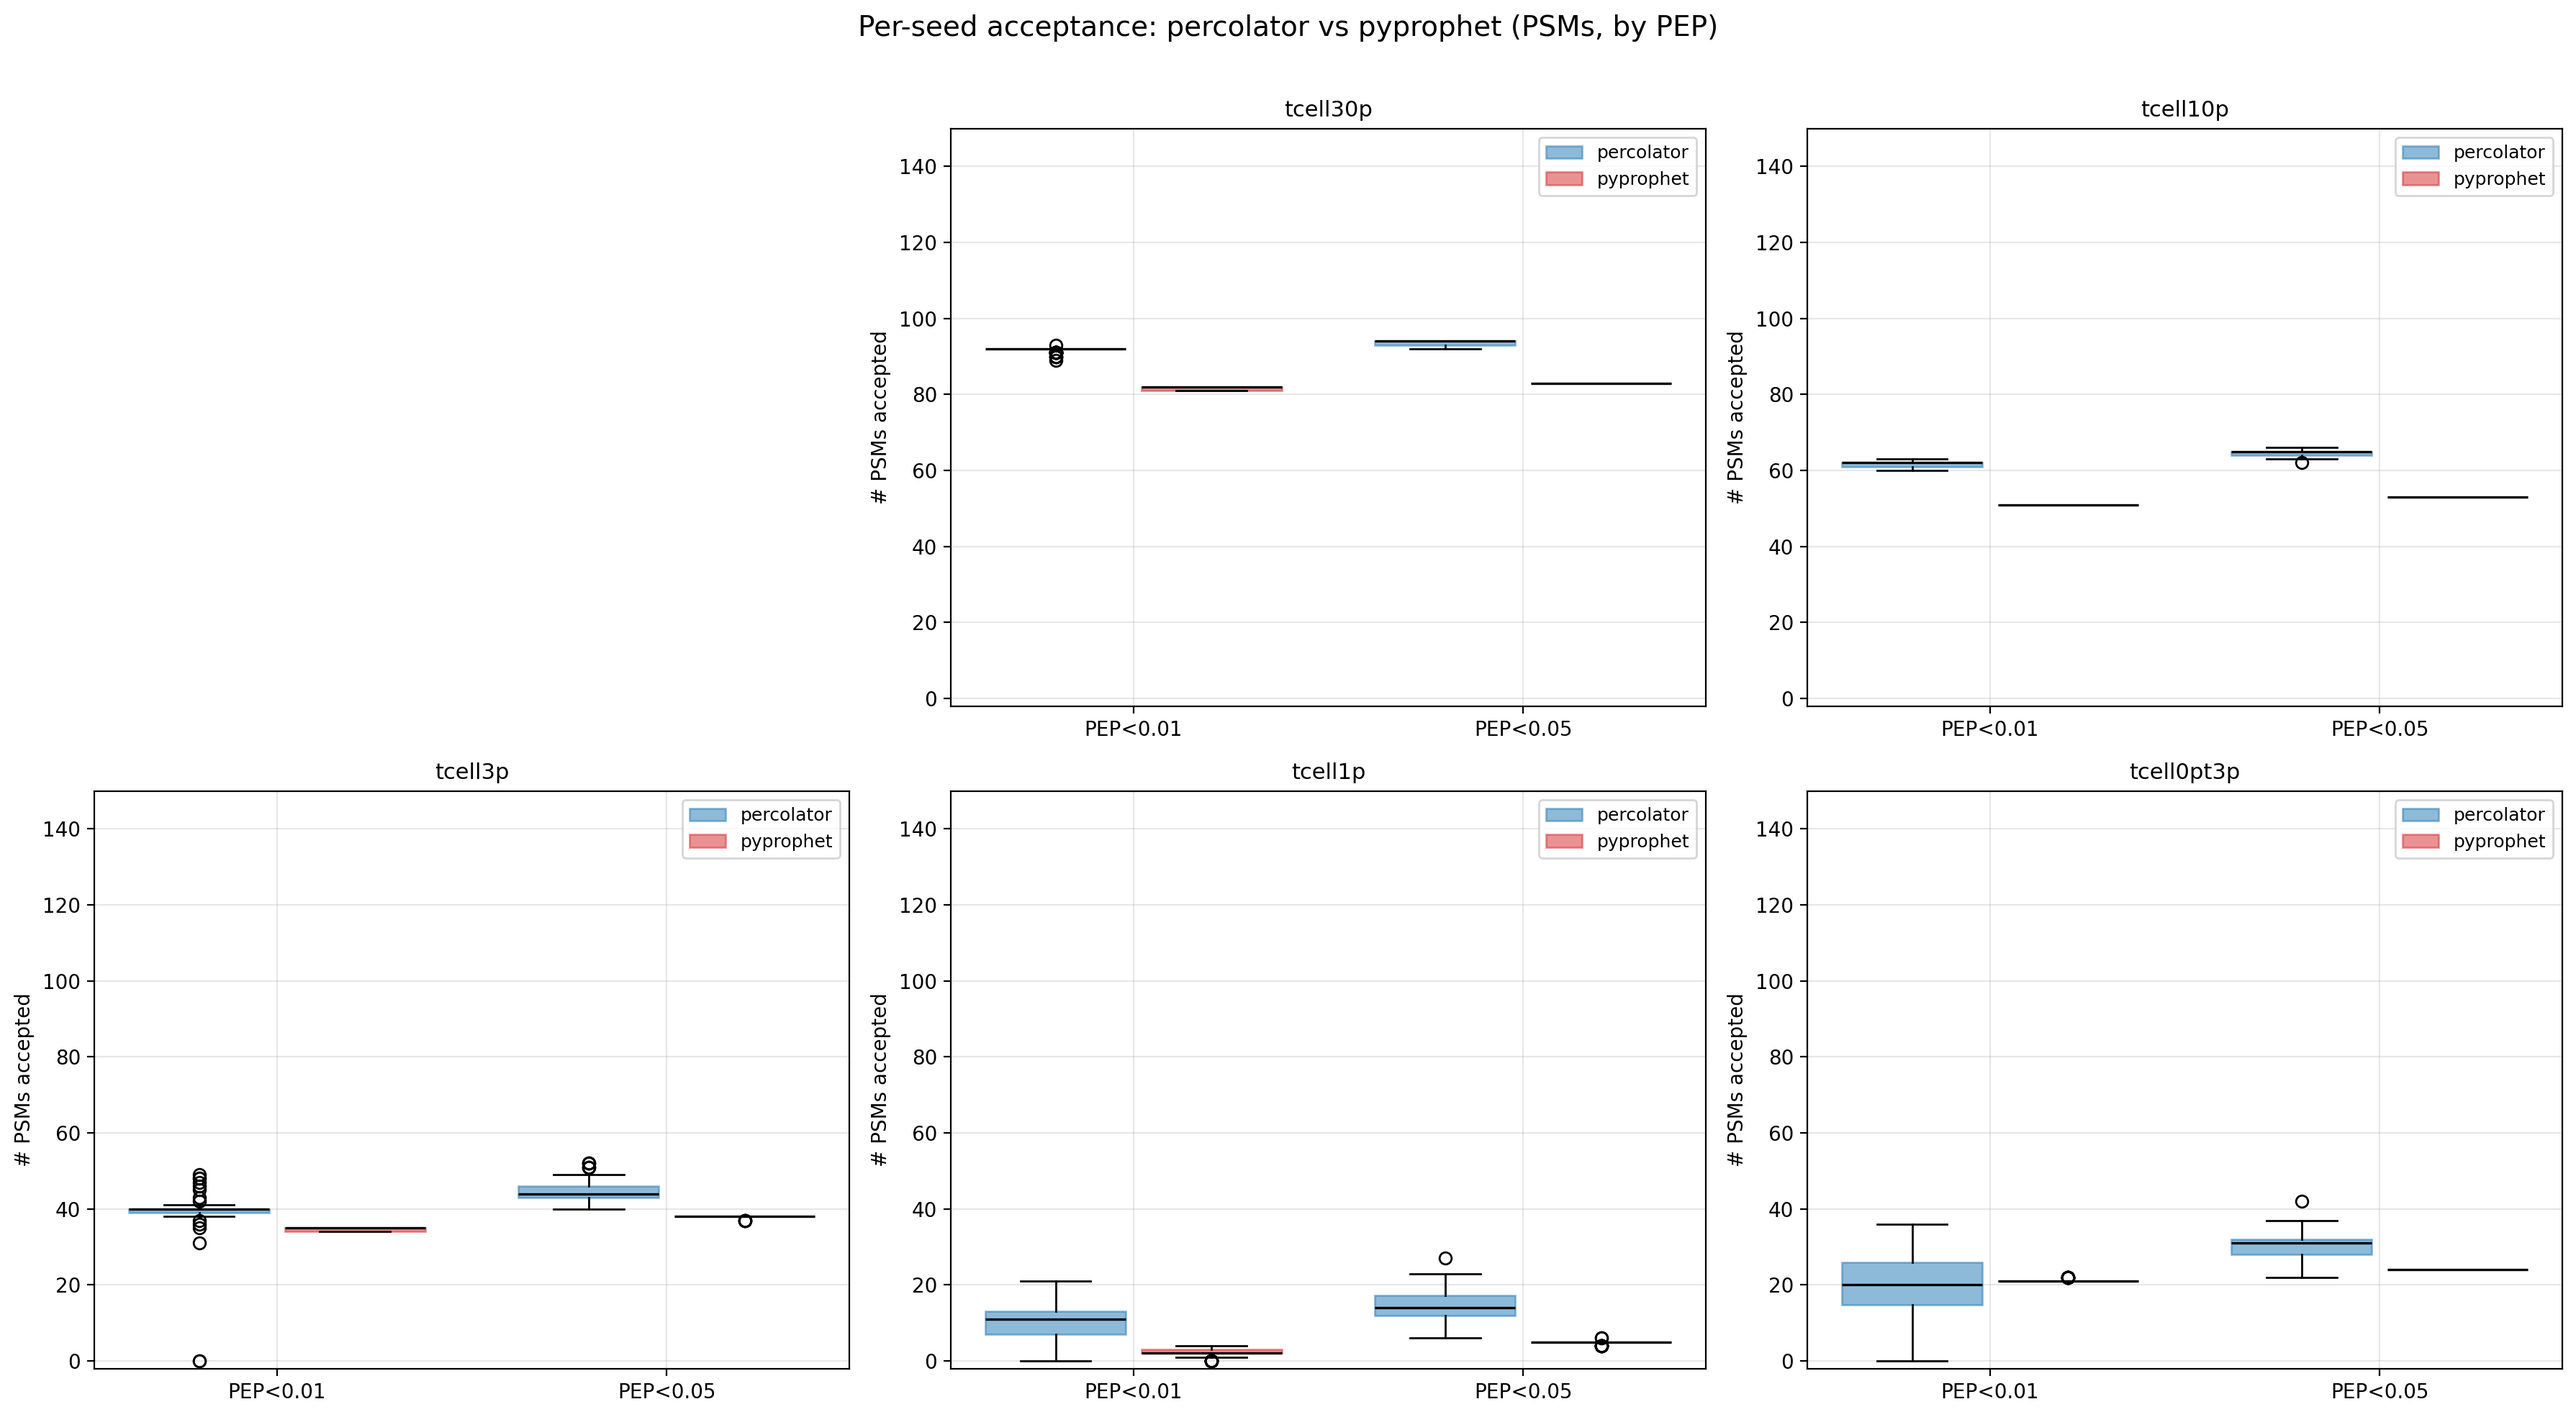
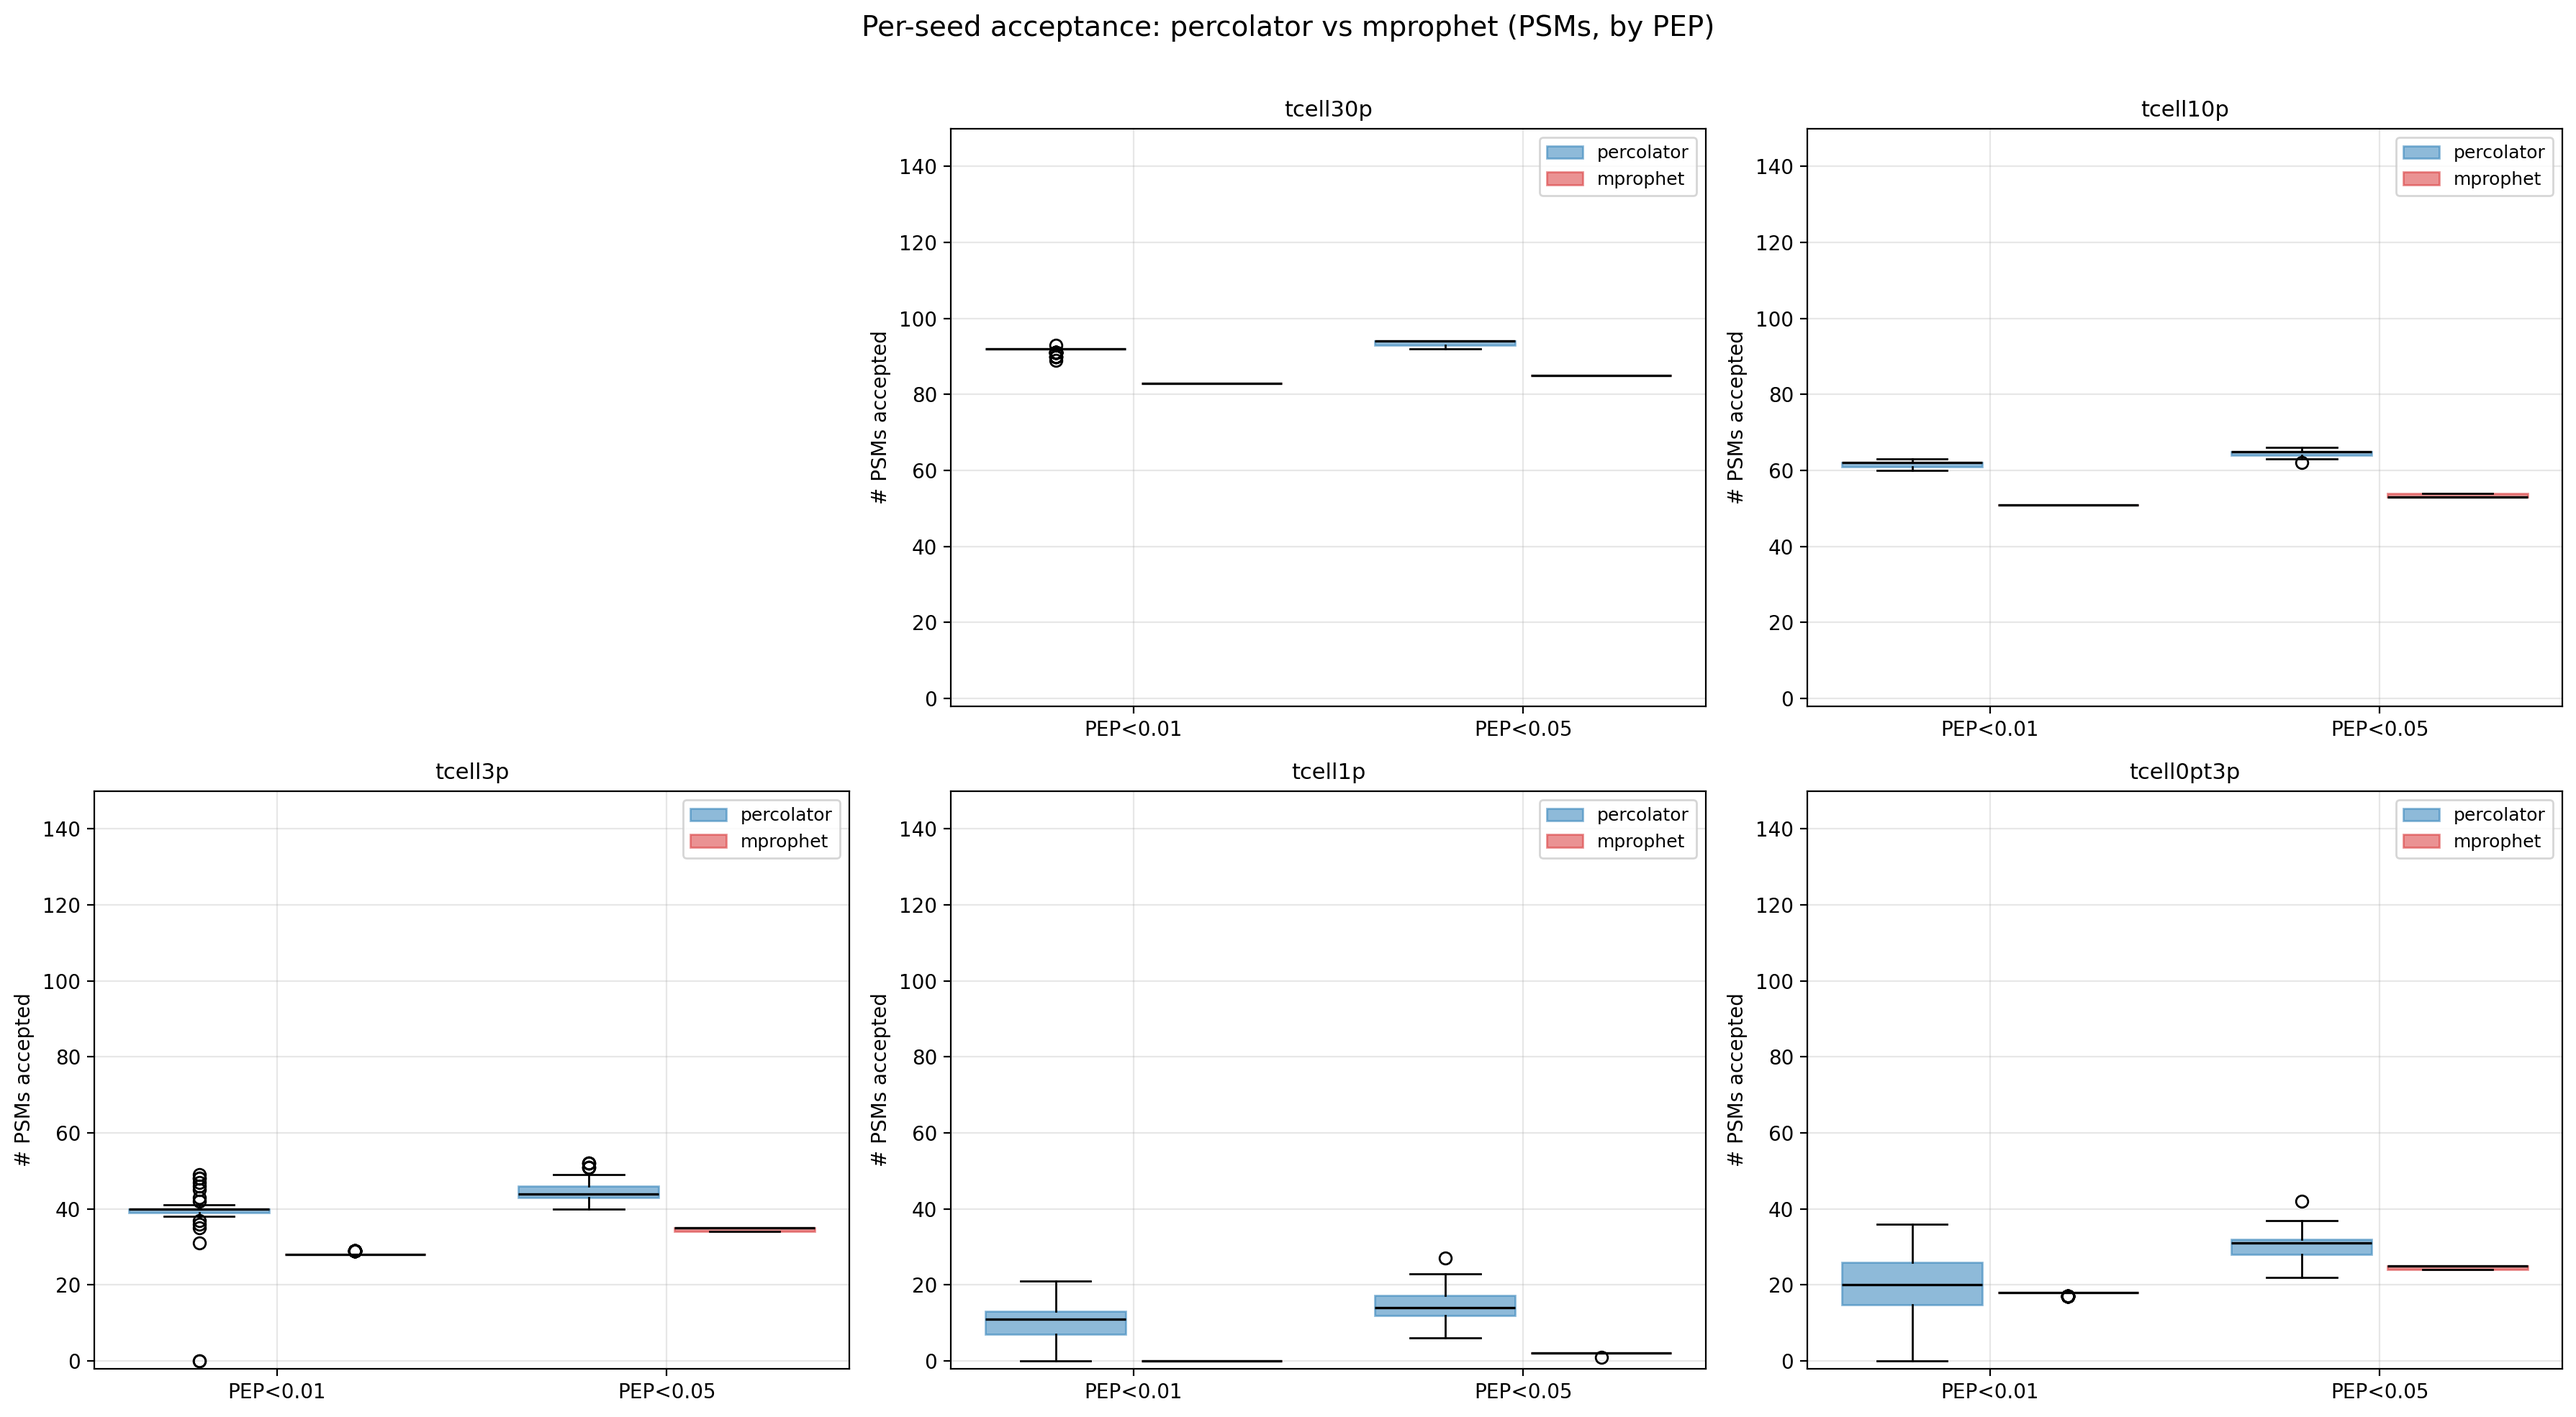
update reproducibility test scripts and results; update docs

diff --git a/scripts/aggregate.py b/scripts/aggregate.py
@@ -37,7 +37,7 @@ def parse_percolator_weights(path):
     return feature_names, np.stack(w_raw, axis=0), np.array(b_raw)
 
 
-def parse_pyprophet_weights(path):
+def parse_mprophet_weights(path):
     df = pd.read_csv(path, sep="\t")
     feat = [str(x) for x in df["feature"].tolist()]
     w = df["weight"].to_numpy(dtype=float)
@@ -55,8 +55,8 @@ def parse_pyprophet_weights(path):
 def parse_weights(path, engine):
     if engine == "percolator":
         return parse_percolator_weights(path)
-    if engine == "pyprophet":
-        return parse_pyprophet_weights(path)
+    if engine == "mprophet":
+        return parse_mprophet_weights(path)
     raise ValueError(f"unknown engine {engine!r}")
 
 
@@ -167,7 +167,7 @@ def build_parser():
     p.add_argument("--outdir", type=Path, required=True,
                    help="Directory containing the per-seed results (typically "
                         "results/<engine>).")
-    p.add_argument("--engine", choices=("percolator", "pyprophet"),
+    p.add_argument("--engine", choices=("percolator", "mprophet"),
                    default="percolator",
                    help="Selects the weight-file format parser.")
     p.add_argument("--q-thresholds", type=float, nargs="+", default=[0.01, 0.05],

diff --git a/scripts/combine_boxplots.py b/scripts/combine_boxplots.py
@@ -11,8 +11,8 @@ import pandas as pd
 
 # /proj/proteoforma_nsc/mamba_env/pymc_py12/bin/python /proj/proteoforma_nsc/Context/scripts/combine_boxplots.py
 
-ENGINES = ("percolator", "pyprophet")
-ENGINE_COLORS = {"percolator": "#1f77b4", "pyprophet": "#d62728"}
+ENGINES = ("percolator", "mprophet")
+ENGINE_COLORS = {"percolator": "#1f77b4", "mprophet": "#d62728"}
 METRICS = ("q-value", "PEP")
 LEVELS = ("PSMs", "peptides")
 LAYOUT = [
@@ -117,7 +117,7 @@ def comparison_grid(base_dir, level, metric):
                 continue
             counts = {eng: _load_counts(base_dir, eng, prefix) for eng in ENGINES}
             _comparison_subplot(ax, counts, level, metric, prefix)
-    fig.suptitle(f"Per-seed acceptance: percolator vs pyprophet "
+    fig.suptitle(f"Per-seed acceptance: percolator vs mprophet "
                  f"({level}, by {metric})", fontsize=14)
     fig.tight_layout(rect=(0, 0, 1, 0.97))
     out_path = cross_figs_dir / f"combined.compare.boxplot.{level}.{metric}.png"

diff --git a/README.md b/README.md
@@ -10,7 +10,7 @@ transfers the learned linear discriminant to score the target panel.
 FDR + q-values from TDC scores and fits an I-spline q -> PEP, separately at
 the PSM and peptide levels.
 
-**`percolator`** (default) and **`pyprophet`** are supported for the discriminant step.
+**`percolator`** (default) and **`mprophet`** are supported for the discriminant step.
 
 `Context` is distributed as both a [**container image**](https://github.com/shannon225/Context/pkgs/container/context)
 (Podman-, Docker- and Apptainer-compatible) and a [**Python package**](https://pypi.org/project/context-ms)
@@ -26,14 +26,12 @@ exposing the same CLI.
 pip install context-ms
 ```
 
-`Context` is a Python package with two interchangeable external engines:
-Percolator and pyProphet. For PyPI installations, `Context` prefers a local
-executable on `PATH` (`percolator` or `pyprophet`); when neither is present
-it falls back to a container image via Podman or Docker (set with
-`--container-cmd`, default `podman`):
+`Context` is a Python package. The `mprophet` engine has no external
+dependency beyond NumPy/pandas. The `percolator` engine prefers a local
+`percolator` executable on `PATH` and falls back to a container image via
+Podman or Docker (set with `--container-cmd`, default `podman`):
 
 * Percolator container: `ghcr.io/percolator/percolator:master`
-* pyProphet container: `ghcr.io/pyprophet/pyprophet:latest`
 
 ### Container image
 ```bash
@@ -59,6 +57,12 @@ results/
   P.peptide.target.txt            # peptide-level target output
 ```
 
+Weights file format:
+
+* `percolator`: Percolator's native `--weights` output (3 lines per CV bin).
+* `mprophet`: a two-column TSV with `feature` and `weight`, plus a final
+  `__bias__` row carrying the LDA constant.
+
 Each output path can be overridden individually via `--weights-out`,
 `--rescored-out`, `--psm-out`, `--peptide-out`. Values may be plain file
 names (written inside `--outdir`, or inside `--outdir/weights` for the
@@ -78,13 +82,36 @@ context run -h
 | `--target FILE` | *required* | target panel feature TSV |
 | `--prefix STR` | *required* | output prefix for results files |
 | `--outdir DIR` | `results` | output directory |
-| `--engine NAME` | `percolator` | `percolator` or `pyprophet` |
-| `--seed INT` | `1` | seed; passed to Percolator. |
+| `--engine NAME` | `percolator` | `percolator` or `mprophet` |
+| `--seed INT` | `1` | seed; passed to Percolator or to mprophet's RNG |
 | `--container-cmd CMD` | `podman` | container runtime fallback (`podman` or `docker`) |
+| `--input-profile NAME` | `encyclopedia` | mprophet-only; feature-column selection profile (`auto`, `pin`, `encyclopedia`) |
+| `--seed-coefficients NAME_OR_PATH` | `encyclopedia` | mprophet-only; built-in name (`encyclopedia`, `none`) or path to a JSON file mapping feature names to seed-model coefficients |
 | `--weights-out FILE` | `<prefix>.weights.txt` | weights output file name (or path); relative paths land under `<outdir>/weights` |
 | `--rescored-out FILE` | `<prefix>.rescored_features.tsv` | rescored-features output file name (or path); relative paths land under `<outdir>` |
 | `--psm-out FILE` | `<prefix>.psm.target.txt` | PSM-level output file name (or path); relative paths land under `<outdir>` |
 | `--peptide-out FILE` | `<prefix>.peptide.target.txt` | peptide-level output file name (or path); relative paths land under `<outdir>` |
+
+### Input profiles (mprophet only)
+
+* `auto` — if any column starts with `var_` or `main_var_`, keep only
+  those (OpenSWATH/pyprophet convention); otherwise fall back to
+  `encyclopedia`.
+* `pin` — keep every column the pin convention exposes as a feature.
+* `encyclopedia` — drop the metadata columns Encyclopedia's
+  `MProphetFeatureReader` excludes by name (`pepLength`, `charge1..4`,
+  `precursorMass`, `RTinMin`, `midTime`, `numberOfMatchingPeaksAboveThreshold`,
+  `primary`, `TD`).
+
+`--input-profile` has no effect on the percolator engine.
+
+### Seed coefficients (mprophet only)
+
+A JSON dictionary mapping feature column names to starting linear
+coefficients for the seed LDA. Names that don't appear in the input
+contribute 0; if all entries drop out, the seed model is disabled
+and inner iter 0 falls back to ranking by the single best feature.
+Pass `none` to disable the seed model unconditionally.
 
 ---
 
@@ -95,20 +122,20 @@ cd example
 ### PyPI
 
 ```bash
-# Percolator
+# Percolator (default)
 context run \
   --nontarget nontarget.tsv \
   --target    target.tsv \
   --prefix    run01 \
   --outdir    results_run01
 
-# pyProphet
+# mProphet
 context run \
   --nontarget nontarget.tsv \
   --target    target.tsv \
   --prefix    run01 \
   --outdir    results_run01 \
-  --engine    pyprophet
+  --engine    mprophet
 ```
 
 ### Container image
@@ -118,7 +145,7 @@ context run \
 podman run --rm -v "$PWD:/work" -w /work \
   ghcr.io/shannon225/context:main \
   run --nontarget nontarget.tsv --target target.tsv \
-      --prefix run01 --outdir results_run01 --engine pyprophet
+      --prefix run01 --outdir results_run01 --engine mprophet
 
 # Apptainer
 apptainer run --bind "$PWD:/work" --pwd /work context.sif \
@@ -133,5 +160,5 @@ apptainer run --bind "$PWD:/work" --pwd /work context.sif \
 * **Container image:** <https://github.com/shannon225/Context/pkgs/container/context>
 * **GitHub repository:** <https://github.com/shannon225/Context>
 * **Percolator:** <http://percolator.ms>
-* **pyProphet:** <https://github.com/PyProphet/pyprophet>
+* **Encyclopedia (mProphet reference):** <https://bitbucket.org/searleb/encyclopedia>
 * **pyIsoPEP:** <https://github.com/statisticalbiotechnology/smooth_q_to_pep>

diff --git a/workflow.md b/workflow.md
@@ -5,7 +5,7 @@ learned weights to the target panel, and calculates q-values and PEPs with
 pyIsoPEP. The discriminant is learned by one of two interchangeable engines.
 
 For one (`nontarget`, `target`) pair, given a seed `K`, prefix `P`, and
-engine `E ∈ {percolator, pyprophet}`:
+engine `E ∈ {percolator, mprophet}`:
 
 ```
 0. Pairing check + feature pruning.
@@ -22,24 +22,48 @@ engine `E ∈ {percolator, pyprophet}`:
      output: a tab-separated text file with 3 rows per CV bin
      (header, normalised weights, raw weights).
 
-   E = pyprophet:
-     Compute μ, σ on the nontarget feature matrix.
-     Standardize Z = (X − μ) / σ, rename columns to pyProphet's
-     transition_group_id / decoy / main_var_* / var_* convention, write
-     a pyProphet TSV, run `pyprophet score --classifier LDA`. pyProphet
-     averages internal CV folds; we read the resulting <prefix>_weights.csv
-     (standardized weights).
-     De-standardize to raw-feature space: w_raw[i] = w_std[i] / σ[i].
-     Bias term is dropped as pyProphet does.
-     Persist <outdir>/weights/P.weights.txt as a tab-separated text file
-     with columns: feature, weight, nontarget_mu, nontarget_sigma. The
-     μ and σ columns record the standardisation that was applied to the
-     nontarget feature matrix before training, so the raw-space weights
-     can be reproduced or audited.
+   E = mprophet:
+     Operates directly on raw feature values. The training loop:
+
+       a. Resolve seed coefficients from --seed-coefficients (built-in
+          'encyclopedia', 'none', or a JSON path). Names not present in
+          the input contribute 0; if everything collapses, the seed
+          model is disabled.
+       b. Resolve the training feature set from --input-profile:
+            auto         — keep var_/main_var_-prefixed columns if any,
+                           else fall back to 'encyclopedia'.
+            pin          — keep all pin-derived feature columns.
+            encyclopedia — drop Encyclopedia metadata columns (pepLength,
+                           charge1..4, precursorMass, RTinMin, midTime,
+                           numberOfMatchingPeaksAboveThreshold, primary,
+                           TD).
+       c. Outer loop: 50 iterations of random 2-fold splits over the
+          target and decoy rows.
+       d. Inner loop on the training fold: 10 semi-supervised iterations.
+            i = 0: rank targets by the seed model (or the auto-selected
+                   best single feature when the seed is empty); keep the
+                   top 15% by score percentile.
+            i = 1: rerank targets by the current LDA; keep targets with
+                   Storey q < 0.02 (p-values from a Gaussian N(mu, sigma)
+                   fit to the decoy scores, matching Encyclopedia; pi0
+                   floored at 0.05).
+            i ≥ 2: same scheme at q < 0.01.
+            Decoys are capped at 10× the kept-positive count. The inner
+            loop stops early when passing count stops growing.
+       e. Score the held-out fold with the final inner-loop LDA. If the
+          seed model beats it (more Storey-q<0.01 targets on the held-out
+          fold), keep the seed model for this outer iteration.
+       f. After 50 outer iterations, sort by held-out passing count, keep
+          the top 25 models, and average their coefficients and bias to
+          produce the final (w, b).
+
+     The weights file written to <outdir>/weights/P.weights.txt is a
+     two-column TSV with `feature` and `weight`, plus a final `__bias__`
+     row carrying the LDA constant.
 
 2. Combine weights into a single (w, b):
      Percolator: w = mean over CV bins, b = mean over CV bins.
-     pyProphet:  w = w_raw, b = 0.
+     mprophet:   w, b as returned by the training routine.
 
 3. Score the target file: score = w · x + b.
 
